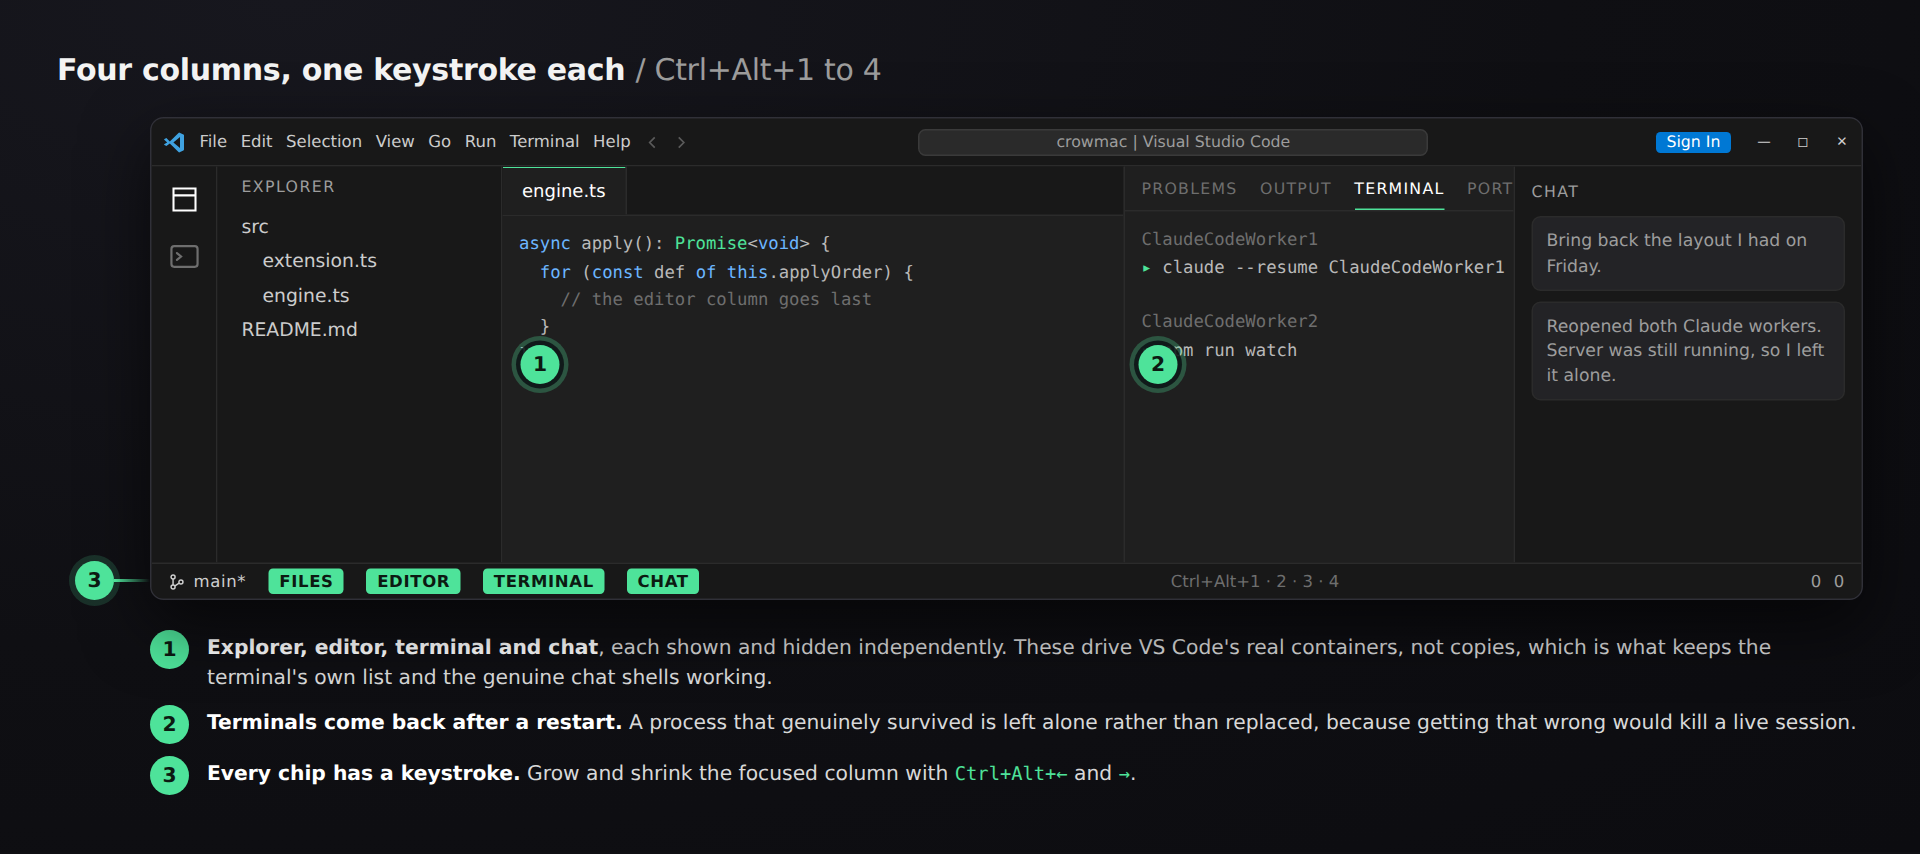
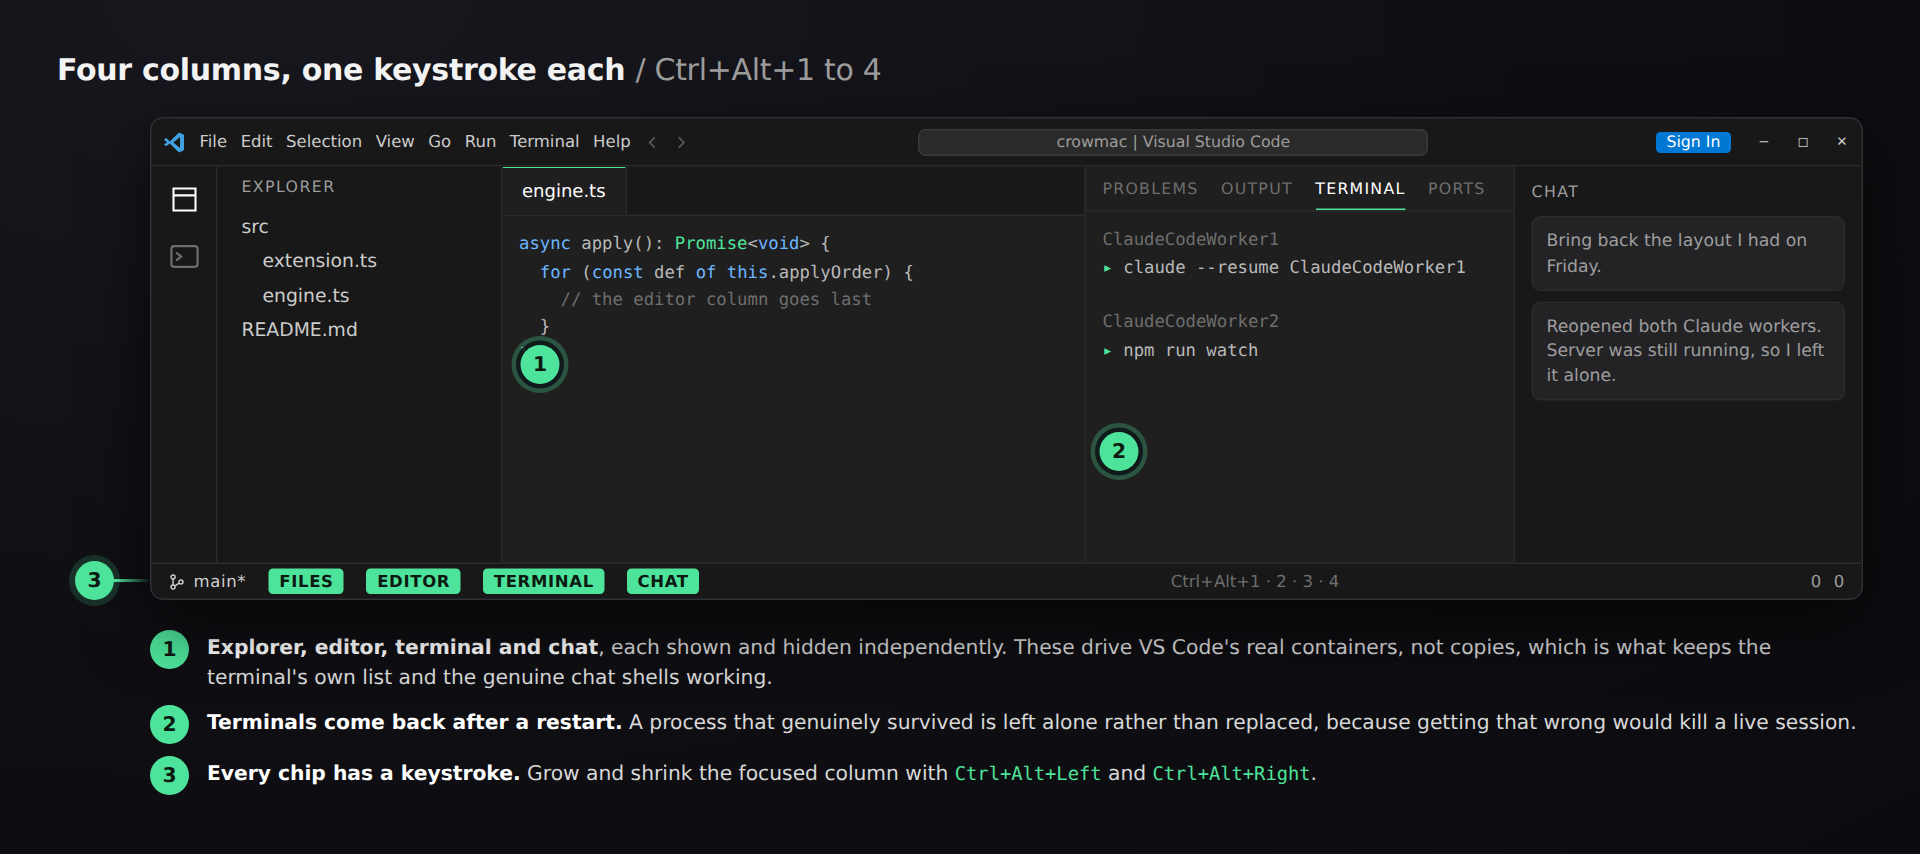
Fix the listing screenshots and stop framing them by hand
The first listing image showed three numbered markers and no legend explaining
them. The notes were in the source the whole time. Frame 1 closed two divs
early, so the parser lifted its .notes block out of the frame and made it a
sibling of body; a capture of the frame element could not include it. The same
imbalance closed .win before the status bar, which is why the bar sat outside
the window and why the gutter marker landed on top of the branch name. Frames 2
and 3 were nested correctly and never showed any of this.

Two more defects were visible only in the rendered image. The terminal column
was 260px holding a 277px tab row, so PORTS vanished under CHAT and a command
ran past the divider; the column is now sized to its tab row and every column
clips its own content. And two markers sat on the content they pointed at, one
over a terminal command and one over the profile list's + button.

scripts/capture-screenshots.mjs replaces the manual capture. It shoots each
.frame whole, so caption, mock and notes cannot be separated again, and refuses
to write when a marker target is missing, when markers and notes are unequal,
when a column overflows its neighbour, or when banned punctuation reaches
rendered text. Each of the above would have failed it. The last of those caught
the window minimise glyph, which was an em-dash character; it is a minus sign
now.

diff --git a/scripts/screenshots.html b/scripts/screenshots.html
@@ -9,8 +9,11 @@
   extension: the view name, chip labels, form fields and button copy are taken
   from src/ and media/. Do not draw a control the extension does not contribute.
 
-  Regenerate: serve this directory and screenshot each .frame element.
-    python3 -m http.server 8931
+  Each .frame holds a caption, the mock, and the notes explaining its numbered
+  pins. All three are one element on purpose: capturing them by hand once
+  published an image whose pins had no legend, because the crop stopped above it.
+
+  Regenerate: node scripts/capture-screenshots.mjs
 -->
 <style>
   :root {
@@ -90,6 +93,10 @@
   .row .inline { margin-left: auto; display: flex; gap: 8px; color: var(--muted); flex: none; padding-left: 6px; }
   .ico { width: 14px; height: 14px; display: block; flex: none; }
 
+  /* A column clips its own content. Without this a tab row or a long command
+     paints over the neighbouring column, which the real workbench never does and
+     which shipped in an earlier listing image as PORTS disappearing under CHAT. */
+  .pane, .term, .aux { overflow: hidden; }
   .pane { background: var(--bg); min-width: 0; display: grid; grid-template-rows: 33px 1fr; }
   .tabs { display: flex; background: var(--chrome); border-bottom: 1px solid var(--border); }
   .tab { padding: 0 13px; display: flex; align-items: center; font-size: 12px; color: var(--dim); border-right: 1px solid var(--border); }
@@ -171,6 +178,15 @@
         } else {
           pin.style.left = '12px';
         }
+
+        // A measured position is right about which control it marks and says
+        // nothing about what sits underneath. `data-dy` moves a pin off text it
+        // would otherwise cover, without going back to hand-tuned coordinates:
+        // the anchor is still the target's box.
+        const dx = Number(pin.dataset.dx ?? 0);
+        const dy = Number(pin.dataset.dy ?? 0);
+        if (dx) pin.style.left = parseFloat(pin.style.left) + dx + 'px';
+        if (dy) pin.style.top = parseFloat(pin.style.top) + dy + 'px';
       }
     }
   });
@@ -184,7 +200,7 @@
     <div class="pin" data-target=".row.sel .inline" data-place="right">2</div>
     <div class="pin" data-target=".statusbar" data-place="gutter">3</div>
     <div class="win" style="height: 302px;">
-      <div class="titlebar"><svg class="vslogo" viewBox="0 0 24 24"><path d="M17.6 2.2 21.4 4a1 1 0 0 1 .6.9v14.2a1 1 0 0 1-.6.9l-3.8 1.8a1 1 0 0 1-1.1-.2L7.8 13l-3.4 2.6-1.9-1a.7.7 0 0 1 0-1.2L5.2 12 2.5 9.6a.7.7 0 0 1 0-1.2l1.9-1L7.8 11l8.7-8.6a1 1 0 0 1 1.1-.2Zm.4 4.3L11.4 12l6.6 5.5V6.5Z" fill="#3fa2e0"/></svg><div class="menubar"><span>File</span><span>Edit</span><span>Selection</span><span>View</span><span>Go</span><span>Run</span><span>Terminal</span><span>Help</span></div><div class="navb"><svg viewBox="0 0 16 16" fill="none" stroke="currentColor" stroke-width="1.5"><path d="M10 3.5 5.5 8l4.5 4.5"/></svg><svg viewBox="0 0 16 16" fill="none" stroke="currentColor" stroke-width="1.5"><path d="M6 3.5 10.5 8 6 12.5"/></svg></div><div class="pill">crowmac | Visual Studio Code</div><span class="signin">Sign In</span><div class="wctl"><span>&#8212;</span><span>&#9723;</span><span>&#10005;</span></div></div>
+      <div class="titlebar"><svg class="vslogo" viewBox="0 0 24 24"><path d="M17.6 2.2 21.4 4a1 1 0 0 1 .6.9v14.2a1 1 0 0 1-.6.9l-3.8 1.8a1 1 0 0 1-1.1-.2L7.8 13l-3.4 2.6-1.9-1a.7.7 0 0 1 0-1.2L5.2 12 2.5 9.6a.7.7 0 0 1 0-1.2l1.9-1L7.8 11l8.7-8.6a1 1 0 0 1 1.1-.2Zm.4 4.3L11.4 12l6.6 5.5V6.5Z" fill="#3fa2e0"/></svg><div class="menubar"><span>File</span><span>Edit</span><span>Selection</span><span>View</span><span>Go</span><span>Run</span><span>Terminal</span><span>Help</span></div><div class="navb"><svg viewBox="0 0 16 16" fill="none" stroke="currentColor" stroke-width="1.5"><path d="M10 3.5 5.5 8l4.5 4.5"/></svg><svg viewBox="0 0 16 16" fill="none" stroke="currentColor" stroke-width="1.5"><path d="M6 3.5 10.5 8 6 12.5"/></svg></div><div class="pill">crowmac | Visual Studio Code</div><span class="signin">Sign In</span><div class="wctl"><span>&#8722;</span><span>&#9723;</span><span>&#10005;</span></div></div>
       <div class="body" style="grid-template-columns: 44px 342px 1fr;">
         <div class="activity">
           <svg class="act" viewBox="0 0 24 24" fill="none" stroke="currentColor" stroke-width="1.5"><path d="M4 4h16v16H4z"/><path d="M4 9h16"/></svg>
@@ -232,8 +248,6 @@
               <div class="term-list"><div class="ti on"><svg viewBox="0 0 16 16" fill="none" stroke="currentColor" stroke-width="1.3"><rect x="1.5" y="2.5" width="13" height="11" rx="1.5"/><path d="M4.5 6.5 6.8 8.5 4.5 10.5"/><path d="M8.5 11h3"/></svg><span>ClaudeCodeWorker1</span></div><div class="ti"><svg viewBox="0 0 16 16" fill="none" stroke="currentColor" stroke-width="1.3"><rect x="1.5" y="2.5" width="13" height="11" rx="1.5"/><path d="M4.5 6.5 6.8 8.5 4.5 10.5"/><path d="M8.5 11h3"/></svg><span>ClaudeCodeWorker2</span></div><div class="ti"><svg viewBox="0 0 16 16" fill="none" stroke="currentColor" stroke-width="1.3"><rect x="1.5" y="2.5" width="13" height="11" rx="1.5"/><path d="M4.5 6.5 6.8 8.5 4.5 10.5"/><path d="M8.5 11h3"/></svg><span>Server</span></div><div class="ti"><svg viewBox="0 0 16 16" fill="none" stroke="currentColor" stroke-width="1.3"><rect x="1.5" y="2.5" width="13" height="11" rx="1.5"/><path d="M4.5 6.5 6.8 8.5 4.5 10.5"/><path d="M8.5 11h3"/></svg><span>CommandLine</span></div><div class="agentbar">auto mode on</div></div>
             </div>
           </div></div>
-        </div>
-      </div>
       <div class="statusbar"><span class="chip" style="color:#cfcfcf"><svg class="eye" viewBox="0 0 16 16" fill="none" stroke="currentColor" stroke-width="1.3"><circle cx="4.5" cy="3.5" r="1.8"/><circle cx="4.5" cy="12.5" r="1.8"/><circle cx="11.5" cy="8" r="1.8"/><path d="M4.5 5.3v5.4M6.2 11.4 9.9 9.1"/></svg>main*</span>
         <span class="chip"><svg class="eye" viewBox="0 0 16 16" fill="none" stroke="currentColor" stroke-width="1.3"><path d="M1 8s2.5-4.5 7-4.5S15 8 15 8s-2.5 4.5-7 4.5S1 8 1 8z"/><circle cx="8" cy="8" r="1.8"/></svg>FILES</span>
         <span class="chip"><svg class="eye" viewBox="0 0 16 16" fill="none" stroke="currentColor" stroke-width="1.3"><path d="M1 8s2.5-4.5 7-4.5S15 8 15 8s-2.5 4.5-7 4.5S1 8 1 8z"/><circle cx="8" cy="8" r="1.8"/></svg>EDITOR</span>
@@ -253,11 +267,13 @@
 <div class="frame" id="shot-editor">
   <div class="caption">Every field at once <span>/ Manage Instance Profiles</span></div>
   <div class="stage">
-    <div class="pin" data-target=".form .field:first-child" data-place="outside-left">1</div>
+    <!-- The SHELL row, not NAME: NAME sits level with the PROFILES header, so a
+         pin there covers that column's + button. -->
+    <div class="pin" data-target=".form .field:nth-child(2)" data-place="outside-left">1</div>
     <div class="pin" data-target=".form .check" data-place="outside-left">2</div>
     <div class="pin" data-target=".form .cmd" data-place="outside-left">3</div>
     <div class="win" style="height: 392px;">
-      <div class="titlebar"><svg class="vslogo" viewBox="0 0 24 24"><path d="M17.6 2.2 21.4 4a1 1 0 0 1 .6.9v14.2a1 1 0 0 1-.6.9l-3.8 1.8a1 1 0 0 1-1.1-.2L7.8 13l-3.4 2.6-1.9-1a.7.7 0 0 1 0-1.2L5.2 12 2.5 9.6a.7.7 0 0 1 0-1.2l1.9-1L7.8 11l8.7-8.6a1 1 0 0 1 1.1-.2Zm.4 4.3L11.4 12l6.6 5.5V6.5Z" fill="#3fa2e0"/></svg><div class="menubar"><span>File</span><span>Edit</span><span>Selection</span><span>View</span><span>Go</span><span>Run</span><span>Terminal</span><span>Help</span></div><div class="navb"><svg viewBox="0 0 16 16" fill="none" stroke="currentColor" stroke-width="1.5"><path d="M10 3.5 5.5 8l4.5 4.5"/></svg><svg viewBox="0 0 16 16" fill="none" stroke="currentColor" stroke-width="1.5"><path d="M6 3.5 10.5 8 6 12.5"/></svg></div><div class="pill">crowmac | Visual Studio Code</div><span class="signin">Sign In</span><div class="wctl"><span>&#8212;</span><span>&#9723;</span><span>&#10005;</span></div></div>
+      <div class="titlebar"><svg class="vslogo" viewBox="0 0 24 24"><path d="M17.6 2.2 21.4 4a1 1 0 0 1 .6.9v14.2a1 1 0 0 1-.6.9l-3.8 1.8a1 1 0 0 1-1.1-.2L7.8 13l-3.4 2.6-1.9-1a.7.7 0 0 1 0-1.2L5.2 12 2.5 9.6a.7.7 0 0 1 0-1.2l1.9-1L7.8 11l8.7-8.6a1 1 0 0 1 1.1-.2Zm.4 4.3L11.4 12l6.6 5.5V6.5Z" fill="#3fa2e0"/></svg><div class="menubar"><span>File</span><span>Edit</span><span>Selection</span><span>View</span><span>Go</span><span>Run</span><span>Terminal</span><span>Help</span></div><div class="navb"><svg viewBox="0 0 16 16" fill="none" stroke="currentColor" stroke-width="1.5"><path d="M10 3.5 5.5 8l4.5 4.5"/></svg><svg viewBox="0 0 16 16" fill="none" stroke="currentColor" stroke-width="1.5"><path d="M6 3.5 10.5 8 6 12.5"/></svg></div><div class="pill">crowmac | Visual Studio Code</div><span class="signin">Sign In</span><div class="wctl"><span>&#8722;</span><span>&#9723;</span><span>&#10005;</span></div></div>
       <div class="body">
         <div class="pane">
           <div class="tabs"><div class="tab on">Terminal Session Profiles</div><div class="tab">engine.ts</div></div>
@@ -313,11 +329,15 @@
   <div class="caption">Four columns, one keystroke each <span>/ Ctrl+Alt+1 to 4</span></div>
   <div class="stage">
     <div class="pin" data-target=".sidebar" data-place="right">1</div>
-    <div class="pin" data-target=".term" data-place="left">2</div>
+    <!-- Below the last line rather than centred on the panel, where it would
+         sit on top of `npm run watch`. -->
+    <div class="pin" data-target=".term" data-place="left" data-dy="58">2</div>
     <div class="pin" data-target=".statusbar" data-place="gutter">3</div>
     <div class="win" style="height: 322px;">
-      <div class="titlebar"><svg class="vslogo" viewBox="0 0 24 24"><path d="M17.6 2.2 21.4 4a1 1 0 0 1 .6.9v14.2a1 1 0 0 1-.6.9l-3.8 1.8a1 1 0 0 1-1.1-.2L7.8 13l-3.4 2.6-1.9-1a.7.7 0 0 1 0-1.2L5.2 12 2.5 9.6a.7.7 0 0 1 0-1.2l1.9-1L7.8 11l8.7-8.6a1 1 0 0 1 1.1-.2Zm.4 4.3L11.4 12l6.6 5.5V6.5Z" fill="#3fa2e0"/></svg><div class="menubar"><span>File</span><span>Edit</span><span>Selection</span><span>View</span><span>Go</span><span>Run</span><span>Terminal</span><span>Help</span></div><div class="navb"><svg viewBox="0 0 16 16" fill="none" stroke="currentColor" stroke-width="1.5"><path d="M10 3.5 5.5 8l4.5 4.5"/></svg><svg viewBox="0 0 16 16" fill="none" stroke="currentColor" stroke-width="1.5"><path d="M6 3.5 10.5 8 6 12.5"/></svg></div><div class="pill">crowmac | Visual Studio Code</div><span class="signin">Sign In</span><div class="wctl"><span>&#8212;</span><span>&#9723;</span><span>&#10005;</span></div></div>
-      <div class="body" style="grid-template-columns: 44px 190px 1fr 260px 232px;">
+      <div class="titlebar"><svg class="vslogo" viewBox="0 0 24 24"><path d="M17.6 2.2 21.4 4a1 1 0 0 1 .6.9v14.2a1 1 0 0 1-.6.9l-3.8 1.8a1 1 0 0 1-1.1-.2L7.8 13l-3.4 2.6-1.9-1a.7.7 0 0 1 0-1.2L5.2 12 2.5 9.6a.7.7 0 0 1 0-1.2l1.9-1L7.8 11l8.7-8.6a1 1 0 0 1 1.1-.2Zm.4 4.3L11.4 12l6.6 5.5V6.5Z" fill="#3fa2e0"/></svg><div class="menubar"><span>File</span><span>Edit</span><span>Selection</span><span>View</span><span>Go</span><span>Run</span><span>Terminal</span><span>Help</span></div><div class="navb"><svg viewBox="0 0 16 16" fill="none" stroke="currentColor" stroke-width="1.5"><path d="M10 3.5 5.5 8l4.5 4.5"/></svg><svg viewBox="0 0 16 16" fill="none" stroke="currentColor" stroke-width="1.5"><path d="M6 3.5 10.5 8 6 12.5"/></svg></div><div class="pill">crowmac | Visual Studio Code</div><span class="signin">Sign In</span><div class="wctl"><span>&#8722;</span><span>&#9723;</span><span>&#10005;</span></div></div>
+      <!-- The terminal column is sized to its own tab row: PROBLEMS OUTPUT
+           TERMINAL PORTS measures 277px, so anything narrower clips a tab. -->
+      <div class="body" style="grid-template-columns: 44px 190px 1fr 286px 232px;">
         <div class="activity">
           <svg class="act on" viewBox="0 0 24 24" fill="none" stroke="currentColor" stroke-width="1.5"><path d="M4 4h16v16H4z"/><path d="M4 9h16"/></svg>
           <svg class="act" viewBox="0 0 24 24" fill="none" stroke="currentColor" stroke-width="1.6" stroke-linecap="round"><rect x="2.5" y="4.5" width="19" height="15" rx="2"/><path d="M6.5 9.5L9.5 12L6.5 14.5"/></svg>
@@ -362,6 +382,6 @@
   <div class="notes">
     <div class="note"><div class="num">1</div><p><b>Explorer, editor, terminal and chat</b>, each shown and hidden independently. These drive VS Code's real containers, not copies, which is what keeps the terminal's own list and the genuine chat shells working.</p></div>
     <div class="note"><div class="num">2</div><p><b>Terminals come back after a restart.</b> A process that genuinely survived is left alone rather than replaced, because getting that wrong would kill a live session.</p></div>
-    <div class="note"><div class="num">3</div><p><b>Every chip has a keystroke.</b> Grow and shrink the focused column with <code>Ctrl+Alt+&larr;</code> and <code>&rarr;</code>.</p></div>
+    <div class="note"><div class="num">3</div><p><b>Every chip has a keystroke.</b> Grow and shrink the focused column with <code>Ctrl+Alt+Left</code> and <code>Ctrl+Alt+Right</code>.</p></div>
   </div>
 </div>

diff --git a/CHANGELOG.md b/CHANGELOG.md
@@ -19,6 +19,29 @@ All notable changes to **Terminal Sessions** are documented here. The format fol
   such as the GitHub social preview, so the output sits in the gitignored branding folder alongside the
   drafts rather than in the directory the marketplace resolves listing images from.
 
+### Fixed
+
+- **The first listing screenshot showed numbered markers with no legend.** Frame 1 of
+  `scripts/screenshots.html` closed two `<div>`s early, so the parser lifted its notes out of the
+  frame entirely and made them a sibling of `<body>`. The same imbalance put the status bar outside
+  the window and left the third marker sitting on top of the branch name. Frames 2 and 3 were nested
+  correctly and were never affected.
+- **A terminal column painted over the chat column.** Its tab row measured 277px inside a 260px
+  column, so `PORTS` disappeared under `CHAT` and a command ran on past the divider. The column is
+  now sized to its own tab row, and a column clips its content the way the real workbench does.
+- Markers no longer sit on the content they point at: one covered a command in the terminal, another
+  covered the profile list's **+**.
+- `Ctrl+Alt+Left` and `Ctrl+Alt+Right` are spelled out. They were unicode arrows, which the no-em-dash
+  rule covers as well, and a listing image is read more often than the README.
+
+### Added
+
+- `scripts/capture-screenshots.mjs`. The listing images had no capture script and were framed by
+  hand, which is how a legend got cropped off a published image. It captures each `.frame` whole and
+  refuses to write anything when a marker's target is missing, when markers and notes are unequal in
+  number, when a column overflows its neighbour, or when banned punctuation reaches rendered text.
+  Every defect above would have failed that check.
+
 ### Removed
 
 - **The restore section**, down to one sentence in *Session profiles*. What survived the 0.4.3 trim

diff --git a/.product/public/README.md b/.product/public/README.md
@@ -18,7 +18,7 @@ cannot be corrected without redrawing it, which is how four unusable banner draf
 
 | File | Source | Regenerate |
 |---|---|---|
-| `01-profiles.png`, `02-editor.png`, `03-columns.png` | `scripts/screenshots.html` | Serve the directory and screenshot each `.frame` |
+| `01-profiles.png`, `02-editor.png`, `03-columns.png` | `scripts/screenshots.html` | `node scripts/capture-screenshots.mjs` |
 
 Only images the README actually links to belong in here. The banner is built by
 `scripts/banner.html` and `node scripts/capture-banner.mjs`, but the README does not use it, so its
